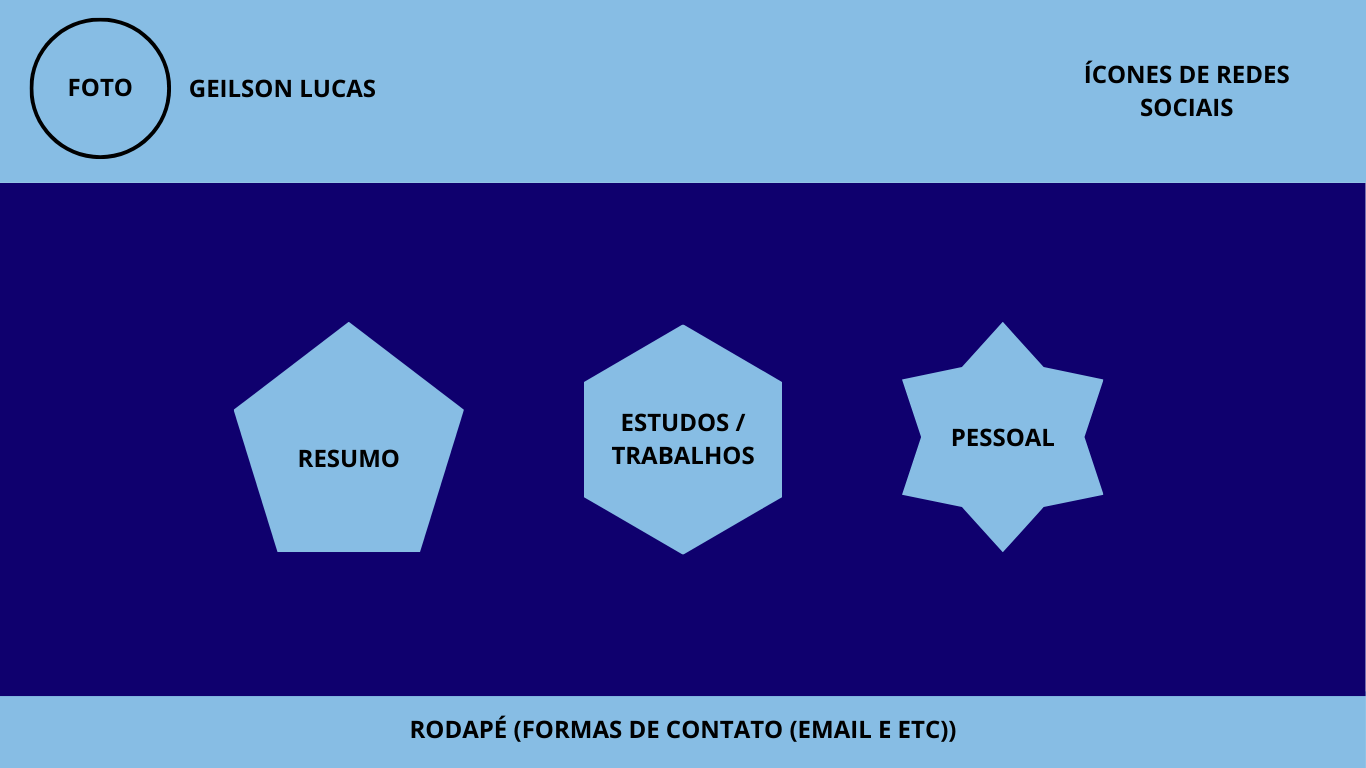
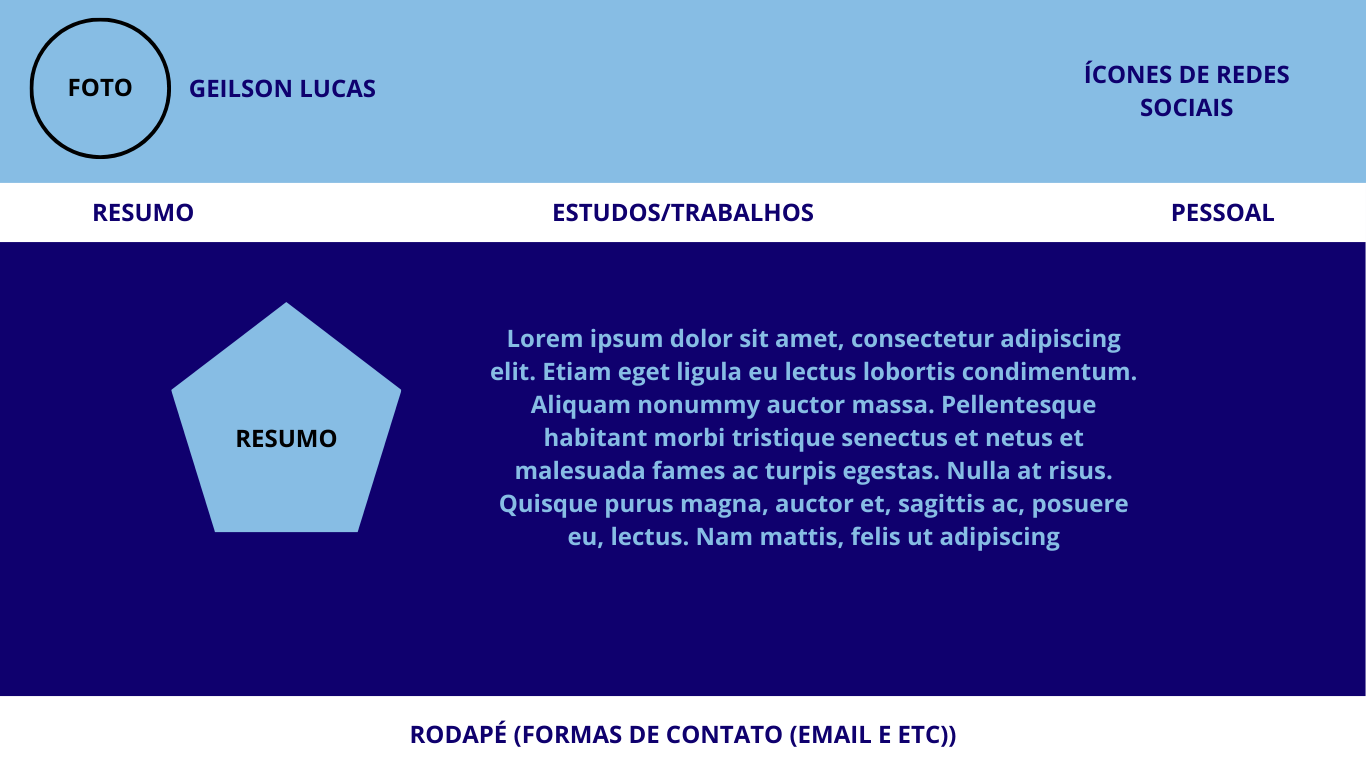
alteração wireframe e evolução do css

diff --git a/estudos.html b/estudos.html
@@ -5,7 +5,19 @@
         </title>
 
         <style>
-            header > img{width: "200px"; border-radius: 100px;}
+            
+            header {display:flex; background-color: lightblue; justify-content: space-between; padding: 0 200px; align-items: center;}
+            
+            header > img{width: 200px; border-radius: 50%;}
+
+            header h1{color:darkblue;}
+
+            nav {display:flex; background-color: white; justify-content:space-between; padding: 20 200px}
+
+            main {display:flex; flex-direction: column; background-color:darkblue; color:lightblue; padding: 100px; align-items: center; text-align: center;}
+
+            footer {background-color: white; color:darkblue;}
+
         </style>
     </head>
 
@@ -23,6 +35,12 @@
                 <img src = "https://img.freepik.com/vetores-gratis/novo-design-de-icone-x-do-logotipo-do-twitter-em-2023_1017-45418.jpg?size=338&ext=jpg&ga=GA1.1.2008272138.1724889600&semt=ais_hybrid" alt = "X" width = "48px">
             </a>
         </header>
+
+        <nav>
+            <a href = "index.html">RESUMO</a>
+            <a href = "estudos.html">ESTUDOS/TRABALHOS</a>
+            <a href = "pessoal.html">PESSOAL</a>
+        </nav>
 
         <main>
 
@@ -53,8 +71,6 @@
             <a href = "https://www.youtube.com/@TrigoNoGame" target = "_blank">
                 <img src = "https://static.vecteezy.com/system/resources/thumbnails/023/986/480/small_2x/youtube-logo-youtube-logo-transparent-youtube-icon-transparent-free-free-png.png" alt = "YouTube" width = "48px">
             </a>
-
-            <a href = "index.html">Voltar</a>
         </main>
 
         <footer>

diff --git a/index.html b/index.html
@@ -6,9 +6,21 @@
 
         <style>
             
-            header {display:flex; background-color: lightblue;}
+            header {display:flex; background-color: lightblue; justify-content: space-between; padding: 0 200px; align-items: center;}
             
             header > img{width: 200px; border-radius: 50%;}
+
+            header h1{color:darkblue;}
+
+            nav {display:flex; background-color: white; justify-content:space-between; padding: 20 200px}
+
+            main {display:flex; flex-direction: column; background-color:darkblue; color:lightblue; padding: 100px; align-items: center;}
+
+            main img {margin-right: 20px;}
+
+            main h3, main p{display:block; text-align: center;}
+
+            footer {background-color: white; color:darkblue;}
 
         </style>
         
@@ -33,10 +45,20 @@
         </header>
 
         <nav>
-            <a href = "resumo.html">RESUMO</a>
+            <a href = "index.html">RESUMO</a>
             <a href = "estudos.html">ESTUDOS/TRABALHOS</a>
             <a href = "pessoal.html">PESSOAL</a>
         </nav>
+
+        <main>
+
+            <img src = "https://cdn-icons-png.flaticon.com/512/182/182321.png" alt = "resumo" width="100px">
+            
+            <h3>Um pouco sobre mim...</h3>
+
+            <p>Estudante de graduação de Ciência da Computação na Universidade Vila Velha. Tenho interesse nas áreas de: otimização na resolução de problemas através de modelos matemáticos; desenvolvimento e design de jogos</p>
+
+        </main>
 
         <footer>
             

diff --git a/pessoal.html b/pessoal.html
@@ -5,7 +5,19 @@
         </title>
 
         <style>
-            header > img{width: "200px"; border-radius: 100px;}
+            
+            header {display:flex; background-color: lightblue; justify-content: space-between; padding: 0 200px; align-items: center;}
+            
+            header > img{width: 200px; border-radius: 50%;}
+
+            header h1{color:darkblue;}
+
+            nav {display:flex; background-color: white; justify-content:space-between; padding: 20 200px}
+
+            main {display:flex; flex-direction: column; background-color:darkblue; color:lightblue; padding: 100px; align-items: center; text-align: center;}
+
+            footer {background-color: white; color:darkblue;}
+
         </style>
     </head>
 
@@ -24,13 +36,18 @@
             </a>
         </header>
 
+        <nav>
+            <a href = "index.html">RESUMO</a>
+            <a href = "estudos.html">ESTUDOS/TRABALHOS</a>
+            <a href = "pessoal.html">PESSOAL</a>
+        </nav>
+
         <main>
 
             <h2>VIDEOGAMES</h2>
 
             <p>Eu gosto de videogames, de escrever, e de ler.</p>
 
-            <a href = "index.html">Voltar</a>
         </main>
 
         <footer>
